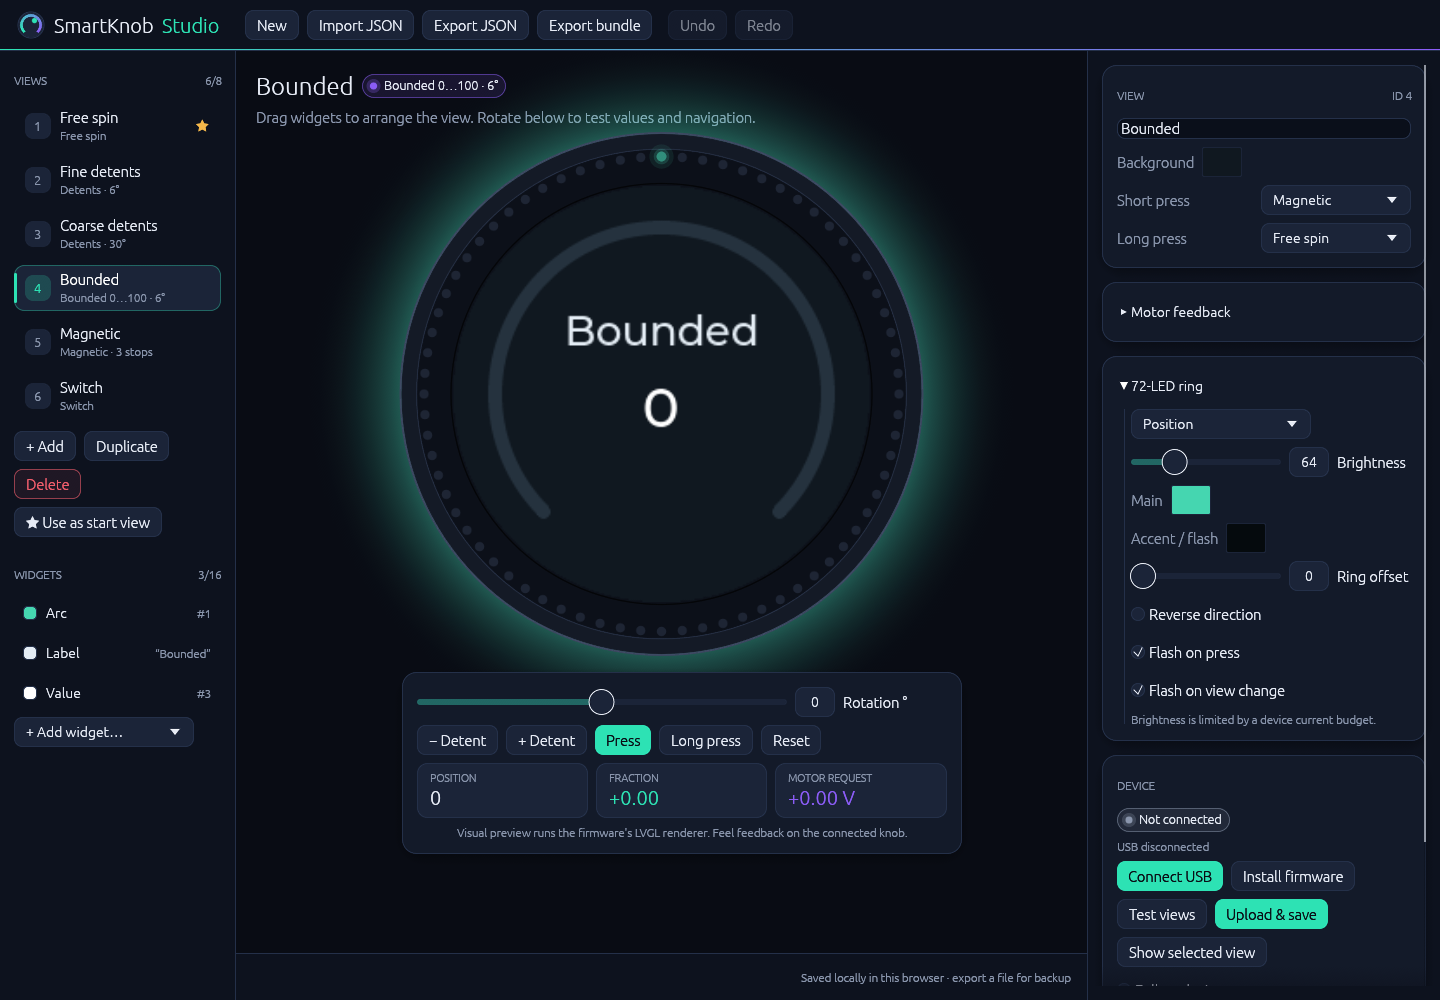
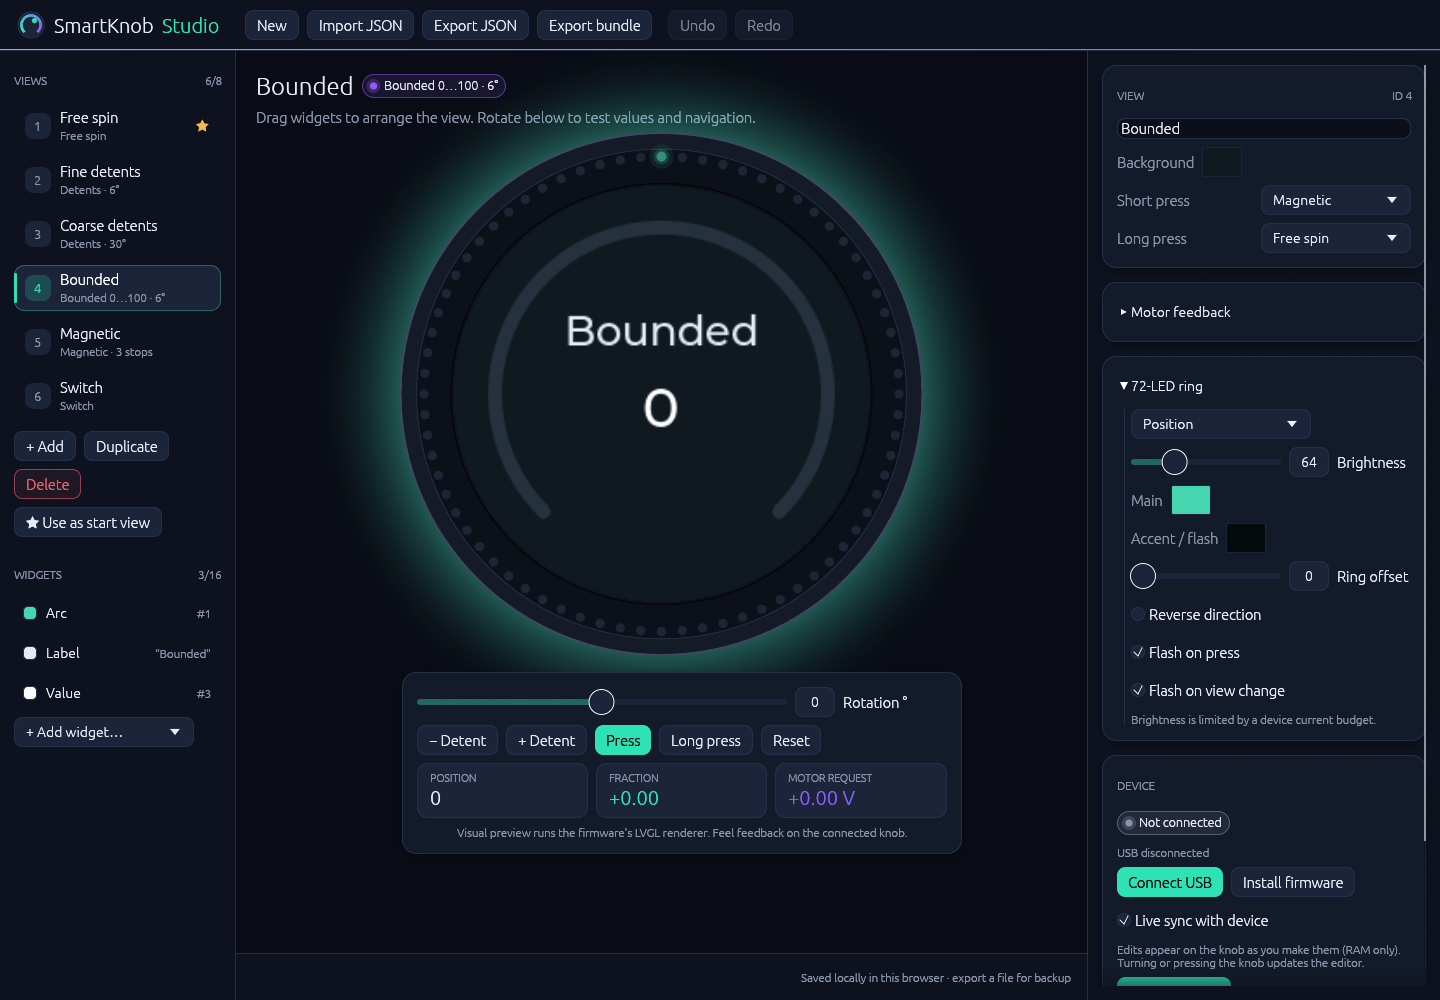
Plot each view's torque curve in the editor's motor feedback card
The editor showed haptic settings only as numbers. sk_haptic_curve, in
the shared core, sweeps a private haptic state slowly forward across a
window of detents (or the lower end stop and range for bounded and
switch modes) and records the requested voltage, peak-held per sample
so detent clicks appear. The preview WASM exports it; the editor caches
it per project and view and draws it under the Click slider with detent
gridlines and the voltage scale.

Core tests check the restoring spring, click spikes versus spring-only
torque, a flat free-spin curve, the end stop pushing back, and invalid
configs. Documentation screenshots are recaptured.

Changed region(s): [[0.7812, 0.806, 0.9688, 0.992]]

diff --git a/web/bridge.js b/web/bridge.js
@@ -168,6 +168,7 @@ globalThis.smartknob = {
   render(bytes,view,position,sub,ms,flash) { load(bytes,view); const p = preview._sk_preview_render(position,sub,ms,flash); return preview.HEAPU8.slice(p,p+240*240*4); },
   simulate(bytes,view,angle,pressed,longPress) { load(bytes,view); const p = preview._sk_preview_step(angle,pressed ? 1 : 0,longPress ? 1 : 0); return preview.HEAPF32.slice(p/4,p/4+3); },
   reset() { preview._sk_preview_reset(); },
+  curve(bytes,view) { load(bytes,view); const p = preview._sk_preview_curve(view); return preview.HEAPF32.slice(p/4,p/4+130); },
   ring() { const p = preview._sk_preview_leds(); return preview.HEAPU8.slice(p,p+216); },
   download(name,bytes,mime) { const url = URL.createObjectURL(new Blob([bytes.slice()],{type:mime})); const a = document.createElement('a'); a.href=url; a.download=name; a.click(); setTimeout(() => URL.revokeObjectURL(url),1000); },
   import_project() { const input = document.createElement('input'); input.type='file'; input.accept='.json,application/json'; input.onchange = async () => { if (input.files[0]) { if (input.files[0].size > 262144) { message='Project file is too large'; return; } imported = await input.files[0].text(); } }; input.click(); },

diff --git a/crates/editor/src/app.rs b/crates/editor/src/app.rs
@@ -18,6 +18,10 @@ pub struct Editor {
     texture: Option<egui::TextureHandle>,
     last_bundle: Vec<u8>,
     ring: Vec<u8>,
+    /// Cached torque curve: bundle and view it was computed for, then
+    /// [from_deg, to_deg, samples…] from the firmware haptics.
+    #[cfg_attr(not(target_arch = "wasm32"), allow(dead_code))]
+    curve: (Vec<u8>, u16, Vec<f32>),
     message: String,
     drag_origin: Option<(i16, i16)>,
     detent_text: String,
@@ -64,6 +68,7 @@ impl Default for Editor {
             texture: None,
             last_bundle: vec![],
             ring: vec![],
+            curve: (vec![], 0, vec![]),
             message: String::new(),
             drag_origin: None,
             detent_text: String::new(),
@@ -427,6 +432,10 @@ impl Editor {
                         .iter()
                         .map(|v| (v.id, v.name.clone()))
                         .collect();
+                    #[cfg(target_arch = "wasm32")]
+                    let curve = self.torque_curve();
+                    #[cfg(not(target_arch = "wasm32"))]
+                    let curve: Option<Vec<f32>> = None;
                     let v = &mut self.project.views[self.view];
                     theme::card(ui, |ui| {
                         theme::section(ui, "View", Some(format!("ID {}", v.id)));
@@ -534,6 +543,9 @@ impl Editor {
                             .on_hover_text(
                                 "Tick played on each detent (1.0 = 2.5 V). Independent of strength.",
                             );
+                            if let Some(curve) = &curve {
+                                torque_plot(ui, curve, h.width_deg);
+                            }
                             ui.horizontal(|ui| {
                                 ui.label(RichText::new("Initial").color(theme::MUTED));
                                 ui.add(
@@ -867,6 +879,17 @@ impl Editor {
             self.device_view = 0;
         }
     }
+    /// Torque curve of the selected view, recomputed only when it changes.
+    #[cfg(target_arch = "wasm32")]
+    fn torque_curve(&mut self) -> Option<Vec<f32>> {
+        let bundle = self.project.bundle().ok()?;
+        let id = self.project.views[self.view].id;
+        if self.curve.0 != bundle || self.curve.1 != id {
+            let data = super::browser::curve(&bundle, id).to_vec();
+            self.curve = (bundle, id, data);
+        }
+        (self.curve.2.len() > 2).then(|| self.curve.2.clone())
+    }
     fn preview(&mut self, root: &mut egui::Ui, ms: u32) {
         #[cfg(target_arch = "wasm32")]
         let ctx = root.ctx().clone();
@@ -1154,6 +1177,88 @@ impl Editor {
             });
     }
 }
+/// Plot of requested motor voltage against angle while turning forward:
+/// negative pulls back toward the detent, spikes are clicks, end stops push.
+fn torque_plot(ui: &mut egui::Ui, data: &[f32], width_deg: f32) {
+    let (from, to, samples) = (data[0], data[1], &data[2..]);
+    ui.add_space(4.);
+    ui.label(
+        RichText::new("Torque while turning forward")
+            .small()
+            .color(theme::MUTED),
+    );
+    let (rect, response) =
+        ui.allocate_exact_size(Vec2::new(ui.available_width(), 96.), Sense::hover());
+    let p = ui.painter_at(rect);
+    p.rect_filled(rect, 8., theme::CARD_HI);
+    let peak = samples
+        .iter()
+        .fold(0.5f32, |m, v| m.max(v.abs()))
+        .min(VOLTAGE_LIMIT);
+    let x = |deg: f32| rect.left() + (deg - from) / (to - from) * rect.width();
+    let y = |v: f32| rect.center().y - v / peak * (rect.height() * 0.42);
+    // Detent centres.
+    if width_deg > 0. && to > from {
+        let mut d = (from / width_deg).ceil() * width_deg;
+        while d <= to {
+            p.line_segment(
+                [
+                    Pos2::new(x(d), rect.top() + 6.),
+                    Pos2::new(x(d), rect.bottom() - 6.),
+                ],
+                egui::Stroke::new(1., theme::BORDER),
+            );
+            d += width_deg;
+        }
+    }
+    p.line_segment(
+        [
+            Pos2::new(rect.left(), y(0.)),
+            Pos2::new(rect.right(), y(0.)),
+        ],
+        egui::Stroke::new(1., theme::MUTED.linear_multiply(0.5)),
+    );
+    let n = samples.len().max(2) - 1;
+    let points: Vec<Pos2> = samples
+        .iter()
+        .enumerate()
+        .map(|(i, v)| Pos2::new(x(from + (to - from) * i as f32 / n as f32), y(*v)))
+        .collect();
+    p.add(egui::Shape::line(
+        points,
+        egui::Stroke::new(2., theme::ACCENT),
+    ));
+    let label = |pos: Pos2, align: egui::Align2, text: String| {
+        p.text(
+            pos,
+            align,
+            text,
+            egui::FontId::proportional(10.5),
+            theme::MUTED,
+        );
+    };
+    label(
+        rect.left_top() + Vec2::new(6., 4.),
+        egui::Align2::LEFT_TOP,
+        format!("+{peak:.1} V"),
+    );
+    label(
+        rect.left_bottom() + Vec2::new(6., -4.),
+        egui::Align2::LEFT_BOTTOM,
+        format!("{from:.0}°"),
+    );
+    label(
+        rect.right_bottom() + Vec2::new(-6., -4.),
+        egui::Align2::RIGHT_BOTTOM,
+        format!("{to:.0}°"),
+    );
+    response.on_hover_text(
+        "Motor request while turning the knob slowly forward, from the firmware's haptics code. \
+         Below the line pulls back toward a detent; spikes are clicks; end stops push back hard.",
+    );
+}
+/// Firmware hard limit on requested voltage (SK_VOLTAGE_LIMIT).
+const VOLTAGE_LIMIT: f32 = 2.5;
 /// Short description of a view's haptics, e.g. "Detents · 6°".
 fn mode_summary(h: &Haptics) -> String {
     match h.mode {

diff --git a/tests/core_tests.c b/tests/core_tests.c
@@ -210,6 +210,45 @@ static void keep_position(void) {
     sk_haptic_init(&h, &k, 1.f);
     assert(h.position == 42);
 }
+static void torque_curve(void) {
+    float from, to, q[200];
+    sk_haptic_config c = {.mode = SK_DETENT,
+                          .width_deg = 10,
+                          .strength = 1,
+                          .endstop = 1,
+                          .snap = 1.1f,
+                          .damping = 0,
+                          .click = .4f};
+    assert(sk_haptic_curve(&c, &from, &to, q, 200));
+    assert(from == -35 && to == 35);
+    /* Just past the centre of a detent the spring pulls back (negative). */
+    size_t after = 100 + 200 * 4 / 70; /* about 4 degrees past the centre */
+    assert(q[after] < -.1f);
+    /* Ticks appear as spikes larger than the spring alone. */
+    float peak = 0;
+    for (int i = 0; i < 200; i++)
+        peak = fmaxf(peak, fabsf(q[i]));
+    assert(peak >= .4f * SK_VOLTAGE_LIMIT * .9f);
+    c.click = 0;
+    sk_haptic_curve(&c, &from, &to, q, 200);
+    float spring = 0;
+    for (int i = 0; i < 200; i++)
+        spring = fmaxf(spring, fabsf(q[i]));
+    assert(spring < peak && spring <= 4 * 1.1f * 10 * SK_PI / 180 + .05f);
+    /* Free spin is flat; bounded shows the end stop pushing back. */
+    c.mode = SK_FREE;
+    sk_haptic_curve(&c, &from, &to, q, 200);
+    for (int i = 0; i < 200; i++)
+        assert(q[i] == 0);
+    c.mode = SK_BOUNDED;
+    c.min = 0;
+    c.max = 3;
+    sk_haptic_curve(&c, &from, &to, q, 200);
+    assert(from == -15 && to == 45);
+    assert(q[199] < -.3f); /* past the upper stop, torque pushes back */
+    c.width_deg = 0;
+    assert(!sk_haptic_curve(&c, &from, &to, q, 200));
+}
 static void click_field(void) {
     uint8_t b[160];
     sk_project p;
@@ -234,6 +273,7 @@ static void click_field(void) {
 int main(void) {
     click_field();
     keep_position();
+    torque_curve();
     sk_encoder_health health = {0};
     /* Repeated three-sample bursts must not permanently latch a healthy stream. */
     for (uint32_t ms = 0; ms < 1000; ms++)

diff --git a/core/src/haptics.c b/core/src/haptics.c
@@ -58,6 +58,44 @@ sk_haptic_config sk_haptic_with_position(const sk_haptic_config *c, int32_t posi
     out.initial = position < lo ? lo : position > hi ? hi : position;
     return out;
 }
+bool sk_haptic_curve(const sk_haptic_config *c, float *from_deg, float *to_deg, float *out,
+                     size_t n) {
+    if (!sk_haptic_valid(c) || n < 2)
+        return false;
+    float w = c->width_deg;
+    float from = -3.5f * w, to = 3.5f * w;
+    if (c->mode == SK_BOUNDED || c->mode == SK_SWITCH) {
+        /* Show the lower end stop and, if close enough, the upper one. */
+        float span = (float)(c->max - c->min);
+        from = ((float)(c->min - c->initial) - 1.5f) * w;
+        to = ((float)(c->min - c->initial) + fminf(span, 6) + 1.5f) * w;
+    }
+    *from_deg = from;
+    *to_deg = to;
+    static sk_haptic_state s;
+    sk_haptic_init(&s, c, 0);
+    const float step = .0005f, dt = .001f; /* 0.5 rad/s: slow, like testing by hand */
+    float angle = 0, target = from * SK_PI / 180;
+    /* Wind back to the start of the window, then record a forward sweep. */
+    while (angle > target) {
+        angle = fmaxf(angle - step, target);
+        sk_haptic_step(&s, angle, dt);
+    }
+    for (size_t i = 0; i < n; i++) {
+        float end = (from + (to - from) * (float)i / (float)(n - 1)) * SK_PI / 180;
+        float peak = 0;
+        bool any = false;
+        do {
+            angle = fminf(angle + step, end);
+            float v = sk_haptic_step(&s, angle, dt);
+            if (!any || fabsf(v) > fabsf(peak))
+                peak = v;
+            any = true;
+        } while (angle < end);
+        out[i] = peak;
+    }
+    return true;
+}
 void sk_haptic_pulse(sk_haptic_state *s, bool pressed, bool long_press) {
     /* Factory firmware plays ±5 V (press), ±1.5 V (release) and ±20 V (long),
      * all clipped by its 5 V limit; ours are clipped by SK_VOLTAGE_LIMIT. */

diff --git a/core/include/sk.h b/core/include/sk.h
@@ -90,6 +90,13 @@ void sk_haptic_init(sk_haptic_state *s, const sk_haptic_config *c, float angle);
 /* c with its initial position replaced by position, clamped to its bounds,
  * so reconfiguring a live view keeps the knob where it is. */
 sk_haptic_config sk_haptic_with_position(const sk_haptic_config *c, int32_t position);
+/* Torque curve for the editor: requested voltage while the knob is turned
+ * slowly forward across a window around the initial position (both end
+ * stops' approach for bounded modes). Each of the n samples holds the
+ * peak value in its interval so detent ticks show. Writes the window in
+ * degrees relative to the initial position; returns false if c is invalid. */
+bool sk_haptic_curve(const sk_haptic_config *c, float *from_deg, float *to_deg, float *out,
+                     size_t n);
 float sk_haptic_step(sk_haptic_state *s, float raw_angle, float dt);
 void sk_haptic_pulse(sk_haptic_state *s, bool pressed, bool long_press);
 void sk_led_render(const sk_led_config *c, const sk_haptic_config *h, int32_t position,

diff --git a/preview/preview.c b/preview/preview.c
@@ -72,6 +72,15 @@ EXPORT int sk_preview_select(uint16_t id) {
     }
     return 1;
 }
+/* [from_deg, to_deg, 128 samples] for the selected view, or zeros. */
+EXPORT const float *sk_preview_curve(uint16_t id) {
+    static float result[2 + 128];
+    memset(result, 0, sizeof(result));
+    const sk_view *v = sk_find_view(&project, id);
+    if (v)
+        sk_haptic_curve(&v->haptic, &result[0], &result[1], &result[2], 128);
+    return result;
+}
 EXPORT void sk_preview_reset(void) {
     input_angle = 0;
     view_id = 0;

diff --git a/crates/editor/src/lib.rs b/crates/editor/src/lib.rs
@@ -24,6 +24,7 @@ mod browser {
             long_press: bool,
         ) -> js_sys::Float32Array;
         pub fn ring() -> js_sys::Uint8Array;
+        pub fn curve(bundle: &[u8], view: u16) -> js_sys::Float32Array;
         pub fn install_firmware();
         pub fn reset();
         pub fn download(name: &str, bytes: &[u8], mime: &str);

diff --git a/README.md b/README.md
@@ -41,7 +41,7 @@ The delivery archive includes `web/pkg`, `web/preview.js`, and `web/preview.wasm
 python3 scripts/serve.py
 ```
 
-Open **http://localhost:8080**. Create or duplicate views, drag widgets on the circular canvas, edit properties, and configure motor feedback and LEDs. Projects are saved in browser local storage; export JSON for a portable backup. Undo/redo buttons and Ctrl/Cmd+Z and Ctrl/Cmd+Y are available.
+Open **http://localhost:8080**. Create or duplicate views, drag widgets on the circular canvas, edit properties, and configure motor feedback and LEDs. The Motor feedback card plots the torque the knob will produce while turning, computed by the firmware's own haptics code, so the effect of strength, snap, click and end stops is visible before you feel it. Projects are saved in browser local storage; export JSON for a portable backup. Undo/redo buttons and Ctrl/Cmd+Z and Ctrl/Cmd+Y are available.
 
 The preview runs **the same C LVGL renderer and haptic/LED algorithms as firmware**, compiled with Emscripten. Its simulation shows positions and requested voltage; physical feedback is tested on a connected knob. Firmware renders RGB565; the browser renders XRGB8888, so color quantization differs slightly.
 
